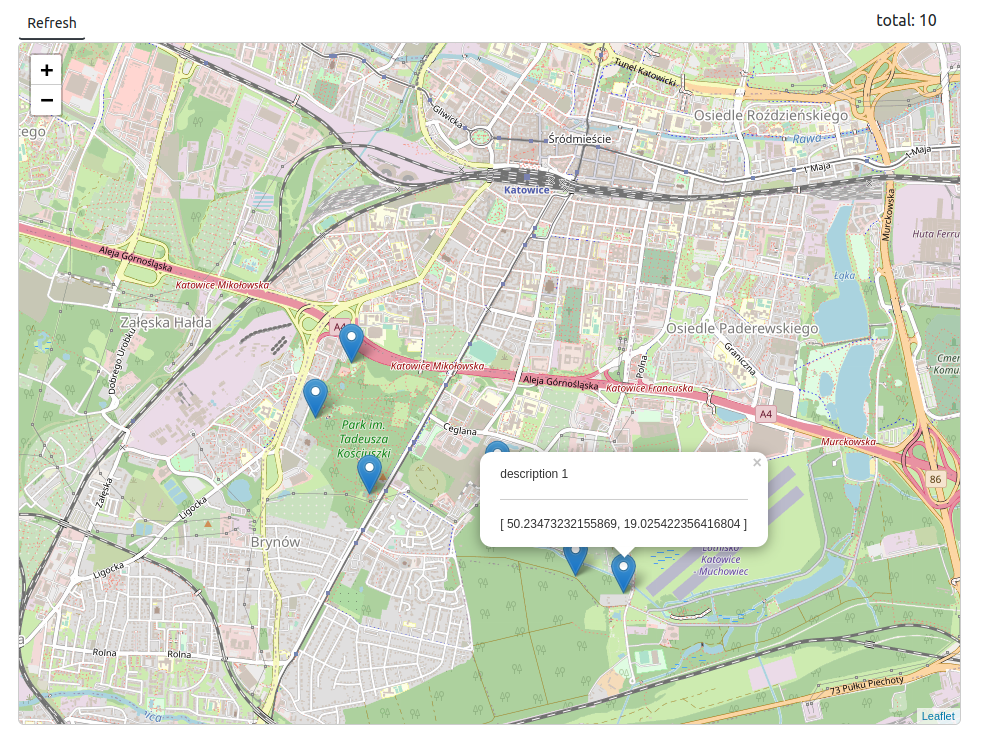
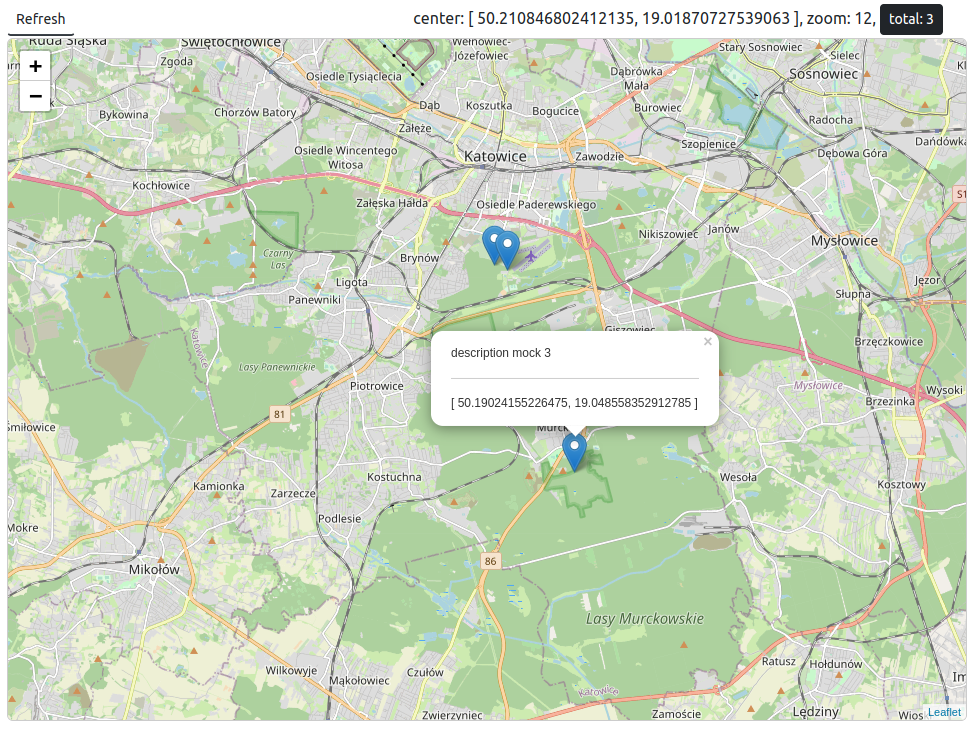
added zoom and center listener; added query params to url

diff --git a/webapp/src/views/SearchView.vue b/webapp/src/views/SearchView.vue
@@ -3,10 +3,10 @@
     <div class="container">
       <div style="float: left"><b-button variant="outline-dark" size="sm" class="refresh"
           @click="refresh()">Refresh</b-button></div>
-      <div style="float: right" >total: {{ markers.length }}</div>
+      <div style="float: right" >center: {{center}}, zoom: {{ zoom }}, <span class="btn btn-dark btn-sm">total: {{ markers.length }}</span></div>
       <div style="clear: both;"></div>
 
-      <LeafletMap :markers="markers" :zoom="zoom"/>
+      <LeafletMap :markers="markers" :zoom="zoom" :center="center"/>
     </div>
   </div>
 </template>
@@ -32,24 +32,30 @@ export default {
       /**
        * Map zoom
        */
-      zoom : 7,
+      zoom : 9,
 
       markers: [
-        // {
-        //   lat: 50.08476746164984,
-        //   lng: 18.97534475266365,
-        // },
-        // {
-        //   lat: 50.08167771832807,
-        //   lng: 18.985255631312956,
-        // },
+          // { lat: 50.23694871652907 , lng: 19.01825272895186 , label: "center " },
+          // { lat: 50.23694871652907 , lng: 17.725811458173524, label: "west " },
+          // { lat: 50.23694871652907 , lng: 20.31069399973014, label: "east " },
+          // { lat: 51.06369525698675 , lng: 19.01825272895186 , label: "nort" },
+          // { lat: 49.410202176071394 , lng: 19.01825272895186 , label: "south" },
       ],
+
+      center : [50.23, 19.02]
     };
   },
   mounted() {
     //
   },
   methods: {
+    zoomUpdated (value) {
+            this.zoom = value;
+    },
+    centerUpdated(value){
+            this.center = value;
+    },
+
     async refresh() {
 
       const request = {
@@ -60,8 +66,10 @@ export default {
         },
         mode: "cors"
       };
-
-      fetch(this.apiCoordinates, request)
+      let [lat,lng] = this.center;
+      const queryParams = "?lat="+lat+"&lng="+lng+"&zoom="+this.zoom;
+      // console.log("query: " + queryParams);
+      fetch(this.apiCoordinates + queryParams, request)
         .then(async response => {
           const data = await response.json();
           this.markers = data;

diff --git a/webapp/src/components/LeafletMap.vue b/webapp/src/components/LeafletMap.vue
@@ -1,12 +1,11 @@
 <template>
     <div style="height: 75vh; width: 50vw;">
-
-        <l-map :zoom="zoom" class="rounded map" :center="[50.23, 19.02]">
+        <l-map :zoom="zoom" class="rounded map" :center="center" @update:zoom="zoomUpdated" @update:center="centerUpdated">
             <l-tile-layer url="https://{s}.tile.openstreetmap.org/{z}/{x}/{y}.png" :attribution="OpenStreetMap" />
 
             <l-marker v-for="marker in markers" :key="marker" :lat-lng="[marker.lat, marker.lng]">
                 <l-popup>
-                    {{marker.desc}}
+                    {{marker.label}}
                     <br/>
                     <hr/>
                     {{ [marker.lat, marker.lng] }}
@@ -37,12 +36,25 @@ export default {
         markers: Array,
         zoom: {
             type: Number,
-            default: 10
+            default: 9
         },
+        center : Array
     },
     data() {
-
+        return {
+            
+        
+        };
     },
+    methods: {
+        zoomUpdated (value) {
+            this.$parent.zoomUpdated(value);
+        },
+        centerUpdated(value){
+            let latlng = [value.lat, value.lng]
+            this.$parent.centerUpdated(latlng);
+        }
+    }
 };
 </script>
 
